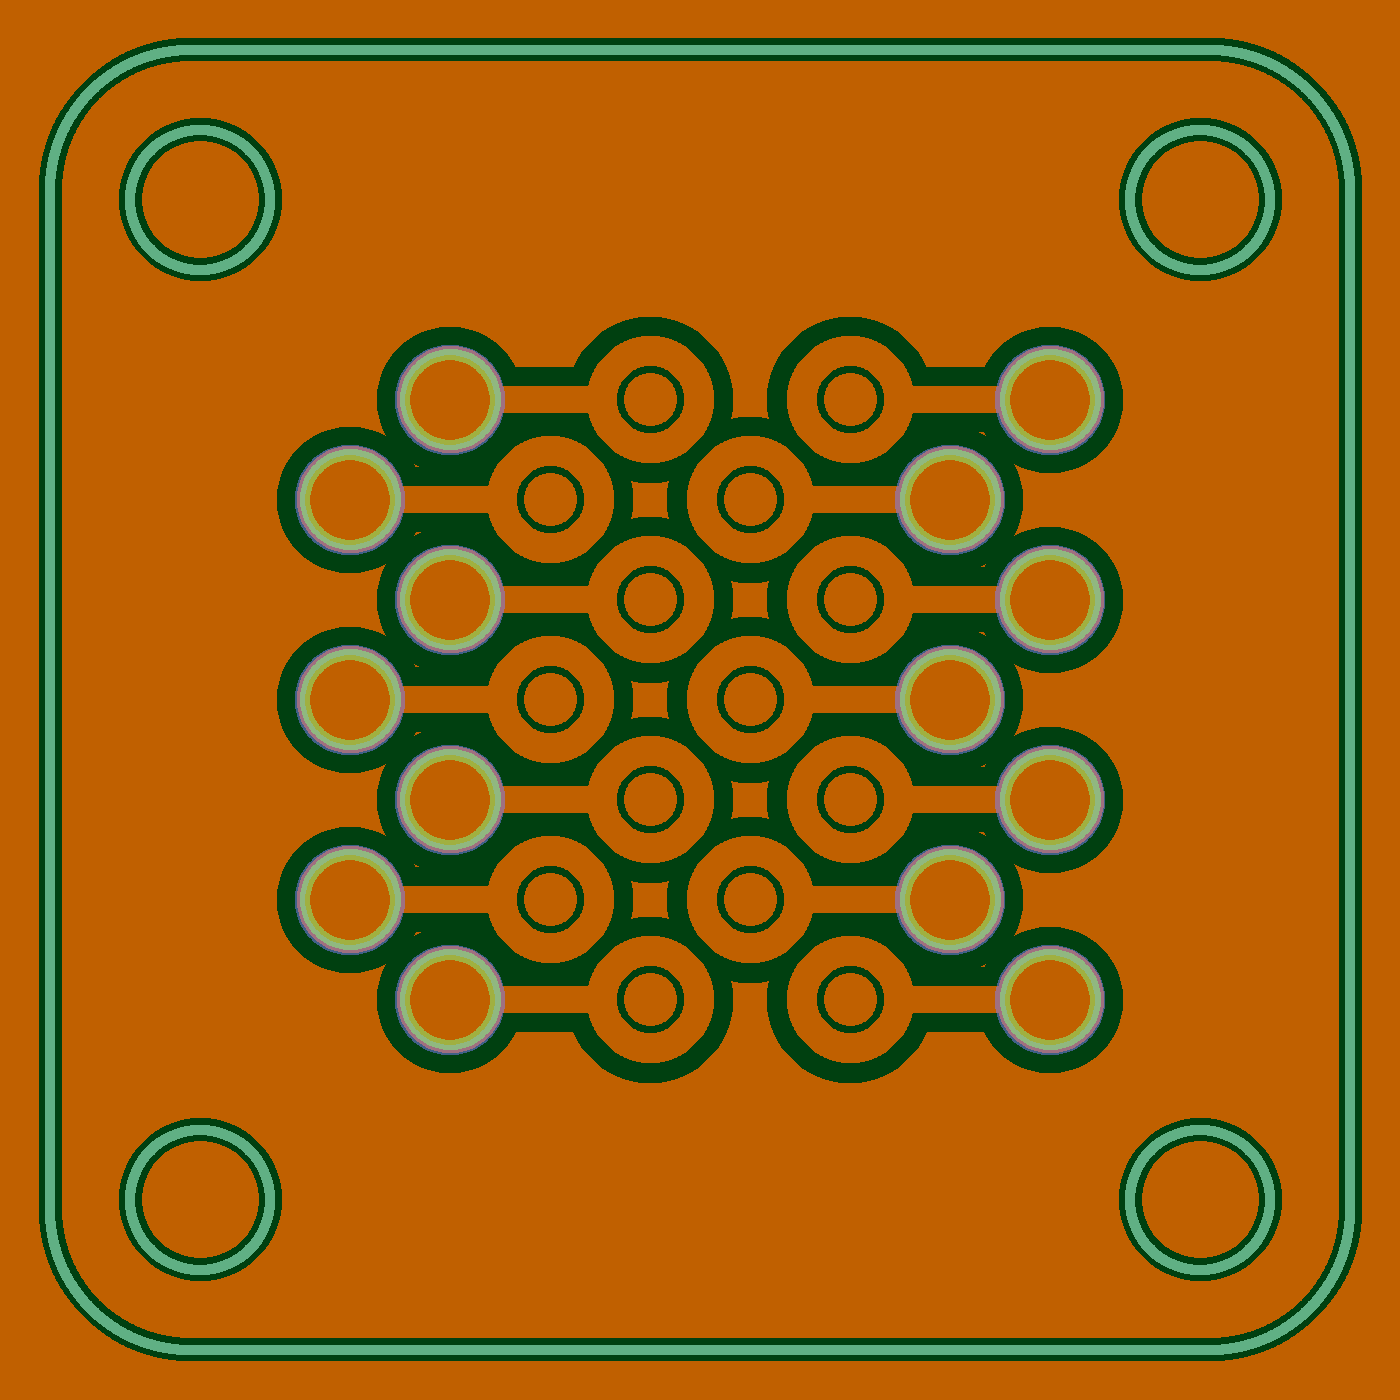
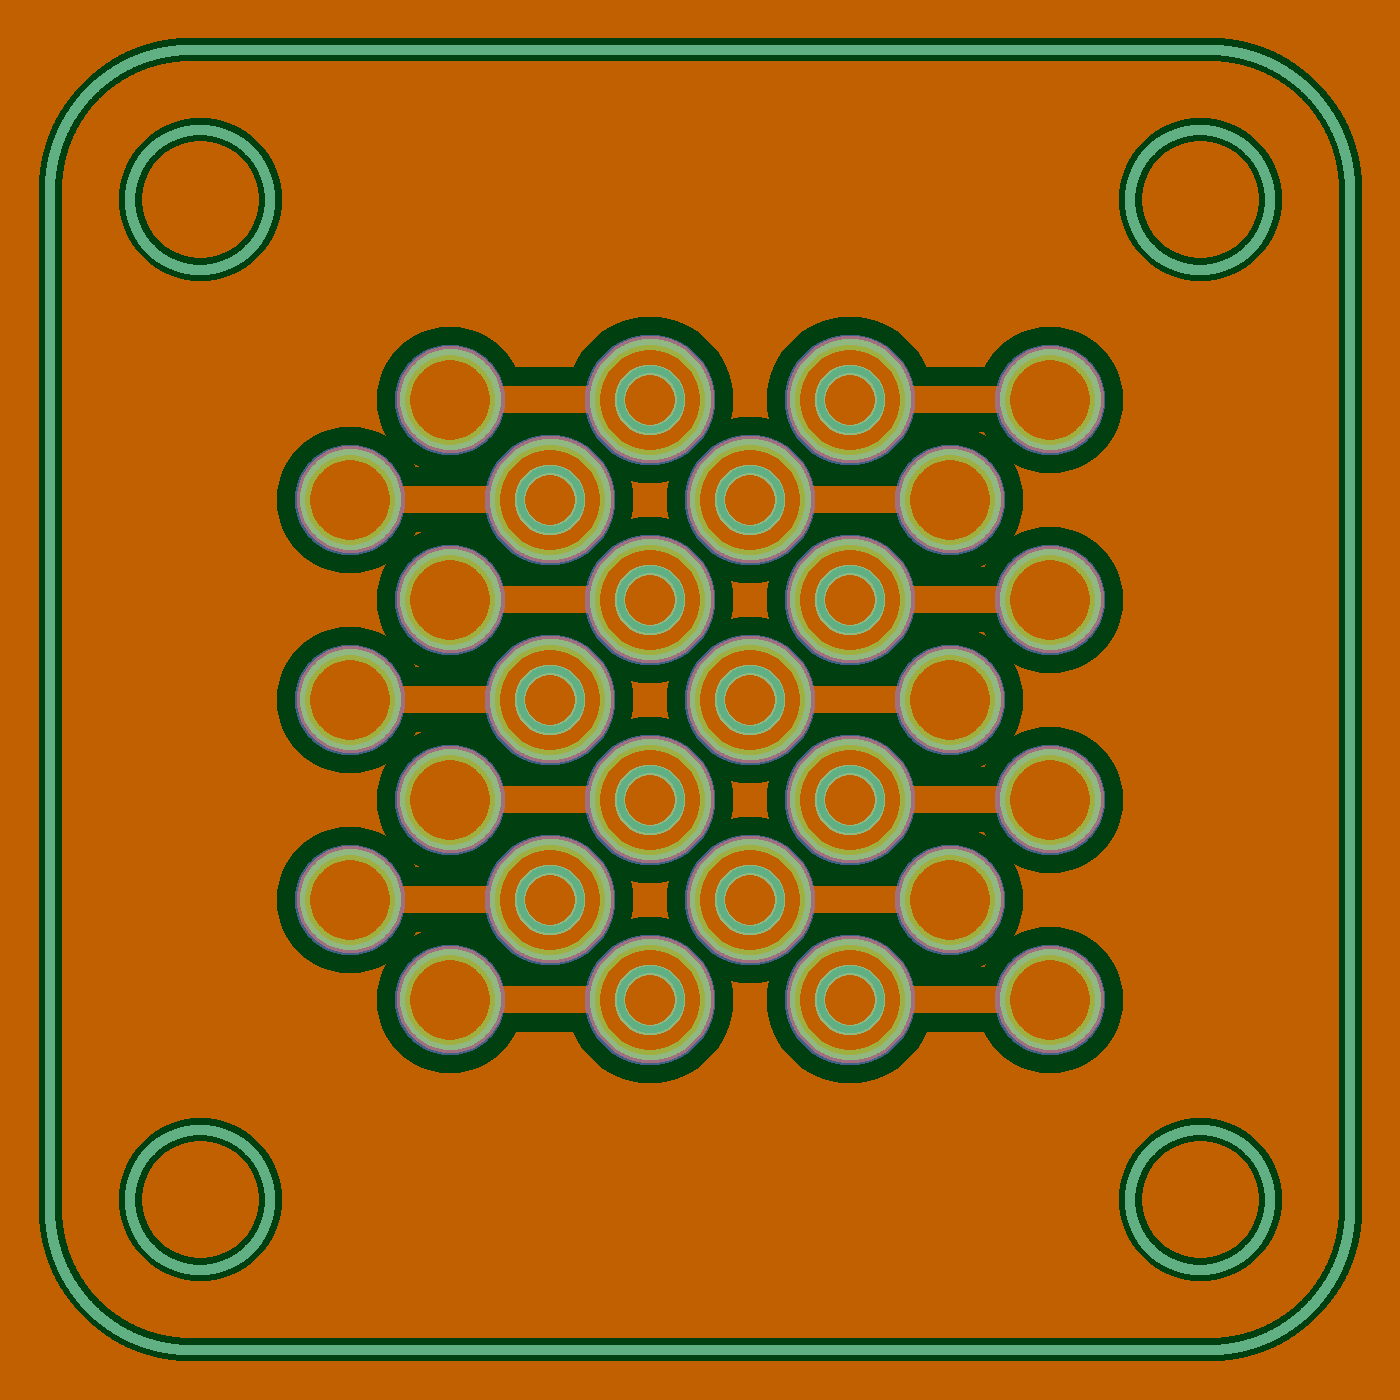
Remove deprecated NoOpening component property

Changed region(s): [[0.3379, 0.215, 0.6757, 0.7679]]

diff --git a/eda/pcb/stencil.go b/eda/pcb/stencil.go
@@ -58,7 +58,7 @@ func renderStencil(config *config.Config, component *eda.Component, stencil *bit
 
 	// Pass 1: draw pads
 	component.Visit(func(c *eda.Component) {
-		if c.CutsOuter || c.NoOpening {
+		if c.CutsOuter {
 			return
 		}
 
@@ -69,7 +69,7 @@ func renderStencil(config *config.Config, component *eda.Component, stencil *bit
 	// Pass 2
 	if config.StencilPadOffset > 0 {
 		component.Visit(func(c *eda.Component) {
-			if c.CutsOuter || c.NoOpening {
+			if c.CutsOuter {
 				return
 			}
 
@@ -85,7 +85,7 @@ func renderStencil(config *config.Config, component *eda.Component, stencil *bit
 
 	// Pass 3
 	component.Visit(func(c *eda.Component) {
-		if c.CutsOuter || c.NoOpening {
+		if c.CutsOuter {
 			return
 		}
 
@@ -102,7 +102,7 @@ func renderStencil(config *config.Config, component *eda.Component, stencil *bit
 	// Pass 5
 	outerCutBrush := shape.Circle(int(config.MaskCutWidth * config.PixelsPerMM))
 	component.Visit(func(c *eda.Component) {
-		if !c.CutsOuter || c.NoOpening {
+		if !c.CutsOuter {
 			return
 		}
 

diff --git a/eda/component.go b/eda/component.go
@@ -30,8 +30,6 @@ type Component struct {
 	ClearWidth float64
 	ClearNone  bool
 
-	NoOpening bool
-
 	Inner []*Component
 }
 
@@ -62,7 +60,6 @@ func (c *Component) visit(t transform.T, parent *Component, callback func(*Compo
 		ClearWidth:  c.ClearWidth,
 
 		ClearNone: c.ClearNone || parent.ClearNone,
-		NoOpening: c.NoOpening || parent.NoOpening,
 	}
 
 	if target.Layer == 0 {

diff --git a/eda/pcb/mask.go b/eda/pcb/mask.go
@@ -95,10 +95,6 @@ func addSilk(config *config.Config, c *eda.Component, silk *bitmap.Bitmap) {
 }
 
 func cutMask1(config *config.Config, c *eda.Component, mask *bitmap.Bitmap) {
-	if c.NoOpening {
-		return
-	}
-
 	t := c.Transform.Multiply(config.BitmapTransform())
 
 	brush := shape.Circle(int(config.MaskCutWidth * config.PixelsPerMM))

diff --git a/eda/lib/via/via.go b/eda/lib/via/via.go
@@ -11,8 +11,6 @@ var Default = Via(0.6, 1.2, 1, 2)
 
 func Via(outerDiameter, headDiameter float64, layer1, layer2 int) *eda.Component {
 	side := &eda.Component{
-		NoOpening: true,
-
 		Pads: path.Paths{path.Circle(headDiameter)},
 
 		Inner: eda.Components{
